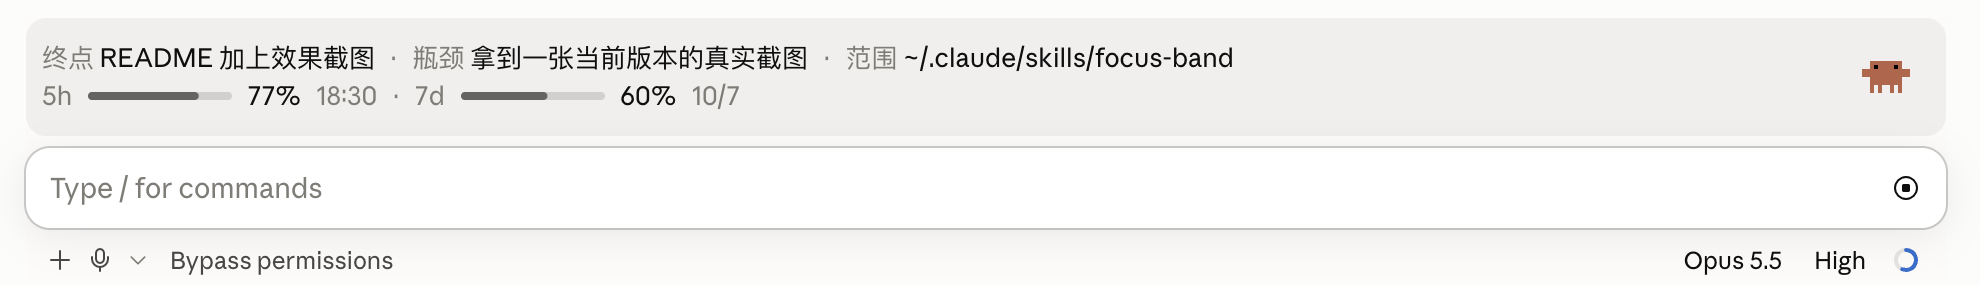
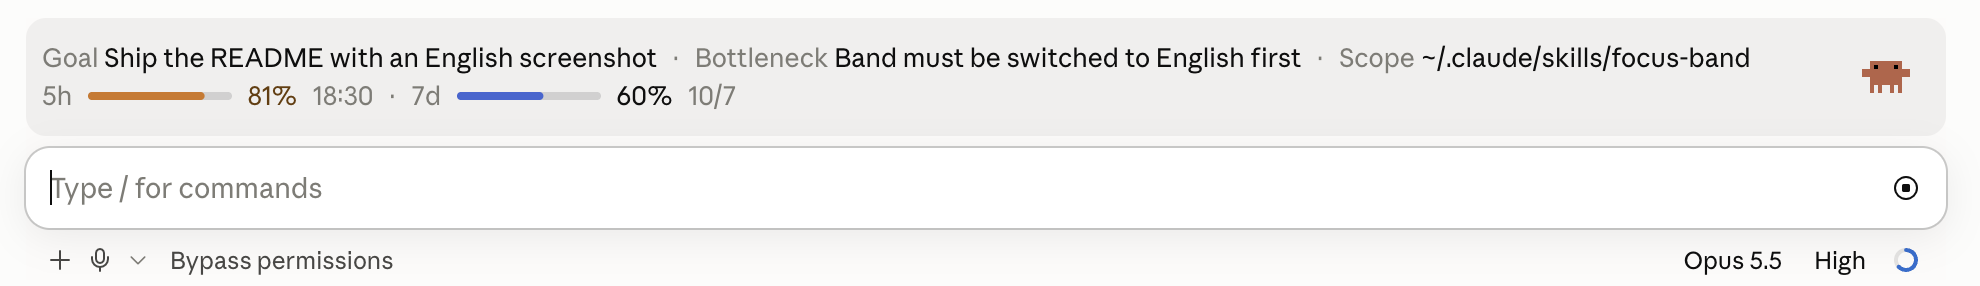
英文首页换成英文界面的截图

Changed region(s): [[0.0, 0.1399, 0.8934, 0.2517], [0.0308, 0.2797, 0.2773, 0.3636], [0.3081, 0.2797, 0.3697, 0.3916]]

diff --git a/README.md b/README.md
@@ -8,7 +8,7 @@ A Claude Code mod that keeps one band above the prompt box in the desktop app: t
 
 Status: 0.14.0. `claude plugin validate` passes, `claude plugin test` passes 15 tests.
 
-The interface comes in English and Chinese. It picks Chinese when the system locale is Chinese (or an earlier focus was written in Chinese) and English otherwise; `/focus-lang` switches. The screenshot shows the Chinese labels (终点 = goal, 瓶颈 = bottleneck, 范围 = scope).
+The interface comes in English and Chinese. It picks Chinese when the system locale is Chinese (or an earlier focus was written in Chinese) and English otherwise; `/focus-lang` switches.
 
 ## Install
 

diff --git a/README.zh.md b/README.zh.md
@@ -4,7 +4,7 @@
 
 桌面端输入框上方常驻一栏：当前的终点 / 瓶颈 / 授权范围，以及 5h、7d 额度。
 
-![效果截图](docs/screenshot.png)
+![效果截图](docs/screenshot.zh.png)
 
 状态：0.14.0。`claude plugin validate` 通过，`claude plugin test` 15 通过。
 
